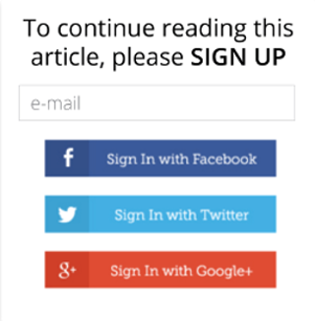
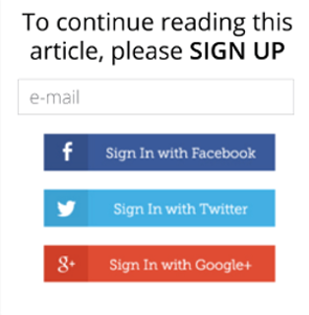
interaction message

diff --git a/js/script.js b/js/script.js
@@ -366,7 +366,7 @@ if($('#paginated-content').length){ //if the div with the id 'paginated content'
         //add 'BlockMessagePage' after the first page ( .eq(0) )
         $('.articleTextPage').eq(0).after('<div id="BlockMessagePage" class="articleTextPage" />');
         //define content for #BlockMessagePage
-        $('#BlockMessagePage').html('<p><img src="images/interaction-signup.png" class="unlockText" width="315" height="326" /></p>');
+        $('#BlockMessagePage').html('<p><img src="images/interaction-signup.png" class="unlockText" width="315" height="321" /></p>');
         //define a height to this div
         //$('#BlockMessagePage').css('height', pageHeight+'px');
          $('#BlockMessagePage').height(pageHeight  +'px').css('min-height', pageHeight+'px !important');
